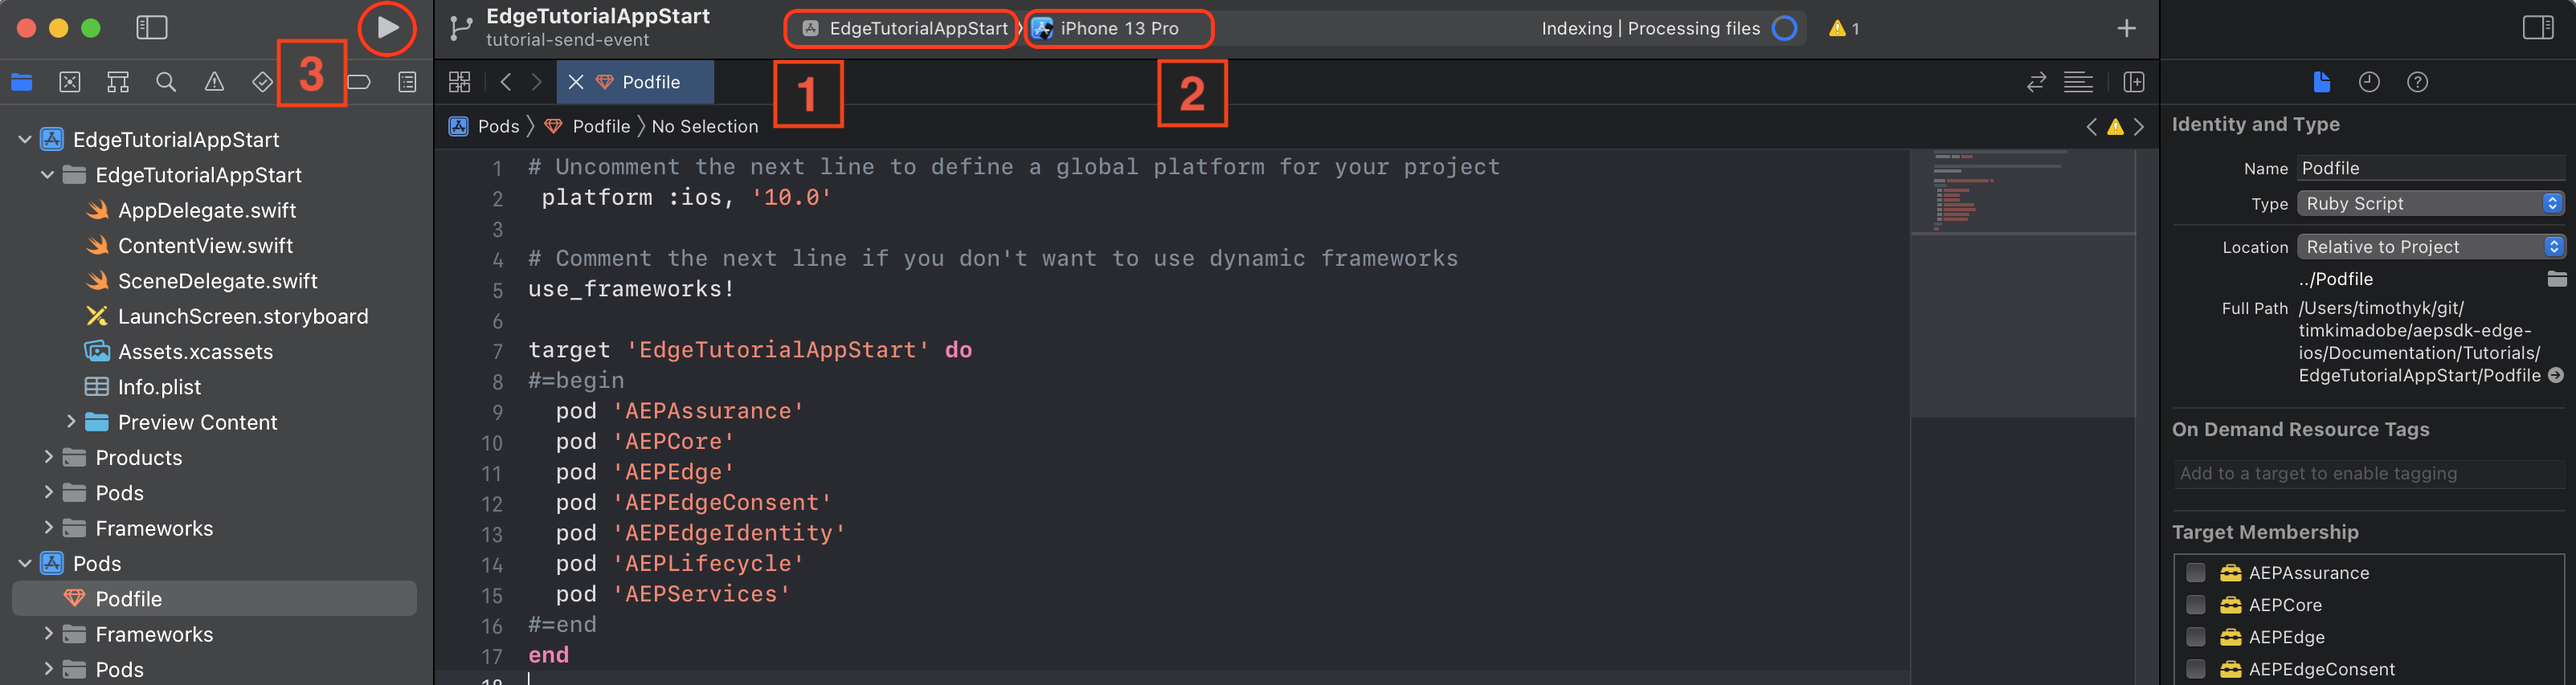
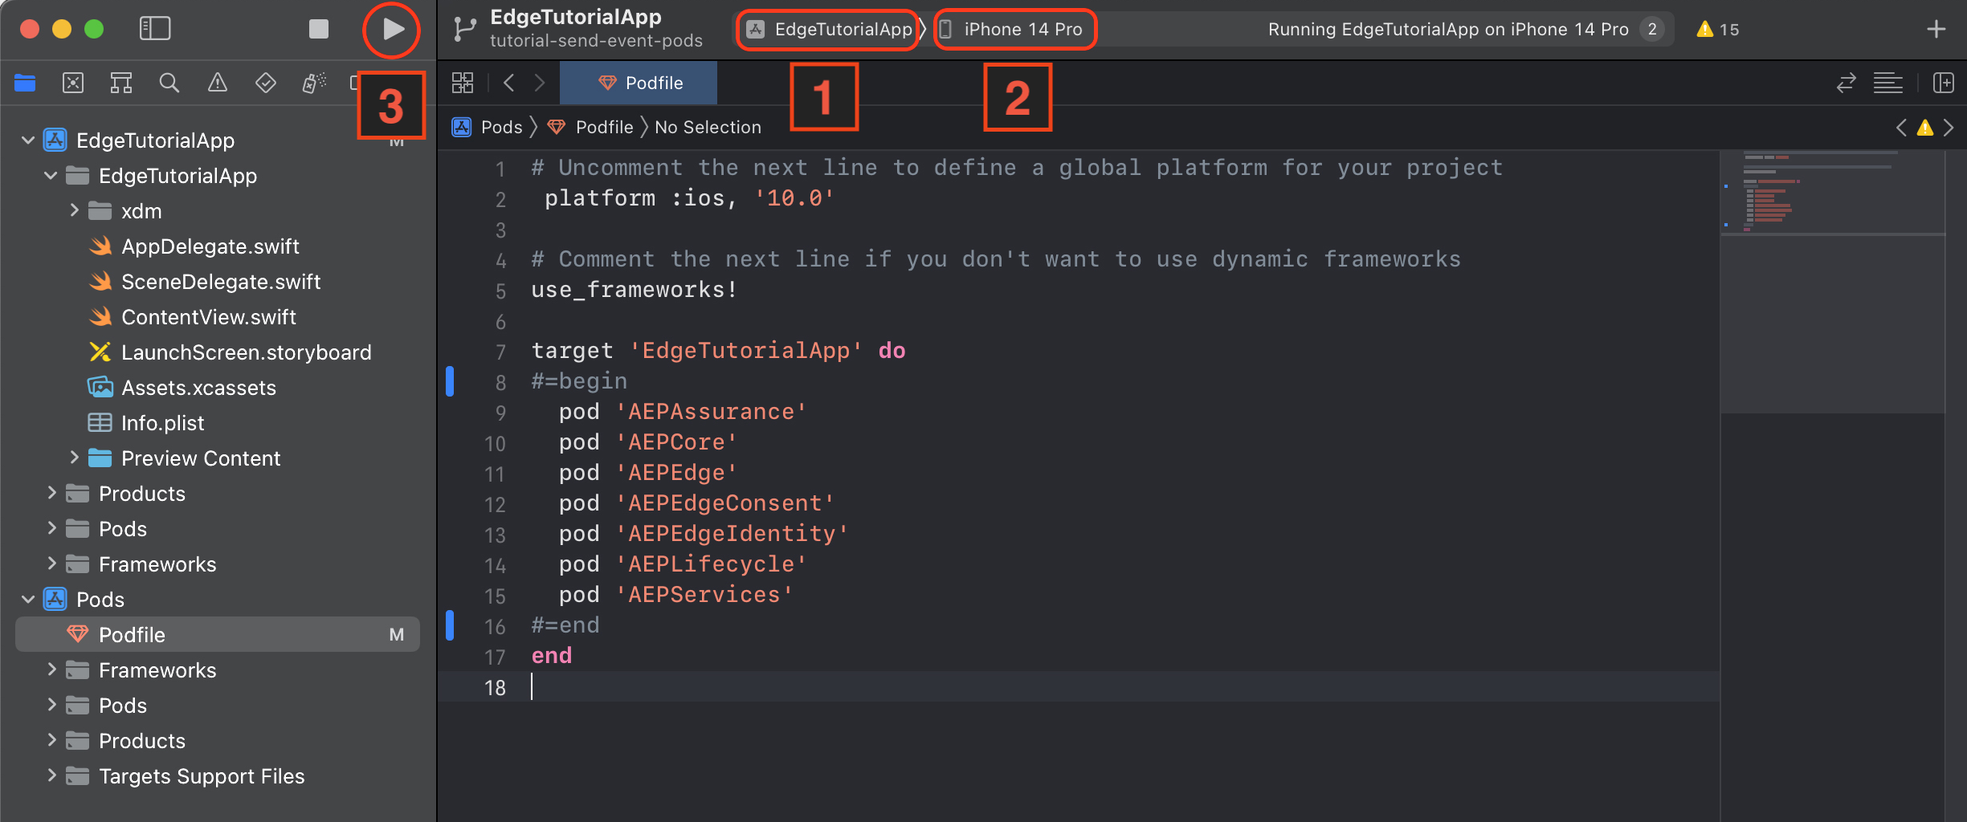
Update app name usages

diff --git a/Documentation/Tutorials/edge-send-event-tutorial.md b/Documentation/Tutorials/edge-send-event-tutorial.md
@@ -387,7 +387,7 @@ This should automatically open the Xcode IDE. In Xcode:
 You should see a section like the following: 
 
 ```ruby
-target 'EdgeTutorialAppStart' do
+target 'EdgeTutorialApp' do
 =begin
   pod 'AEPAssurance'
   pod 'AEPCore'
@@ -402,7 +402,7 @@ end
 Add a pound symbol `#` in front of the `=begin` and `=end` like so:
 
 ```ruby
-target 'EdgeTutorialAppStart' do
+target 'EdgeTutorialApp' do
 #=begin
   pod 'AEPAssurance'
   pod 'AEPCore'
@@ -457,8 +457,8 @@ tim@Tims-MacBook-Pro aepsdk-edge-ios-tutorial-send-event %
 ### 3. Update tutorial app code to enable Edge features
 There are three files to update to enable the Edge extensions' features. Thankfully, all of the code changes are contained in block comments like the Podfile so only a few changes have to be made!
 
-1. Select the dropdown chevron next to `EdgeTutorialAppStart` in the left-side navigation panel to open the project.
-2. Select the dropdown chevron next to `EdgeTutorialAppStart` to open the directory holding the code files.
+1. Select the dropdown chevron next to `EdgeTutorialApp` in the left-side navigation panel to open the project.
+2. Select the dropdown chevron next to `EdgeTutorialApp` to open the directory holding the code files.
 3. Select the `AppDelegate.swift` file.
 4. First update the `ENVIRONMENT_FILE_ID` value to the mobile property ID published in the first section.
    - See how to get your mobile property ID in the instructions for [getting the mobile property ID](#getting-the-mobile-property-id).
@@ -487,7 +487,7 @@ Notice that the Lifecycle APIs rely on the developer to place them in the proper
 
 ### 4. Run app   
 In Xcode: 
-1. Set the app target (**1**) to **EdgeTutorialAppStart** (if not already).
+1. Set the app target (**1**) to **EdgeTutorialApp** (if not already).
 2. Choose which destination device (**2**) to run it on (either simulator or physical device, in this case it is set to the iPhone 13 Pro simulator). 
 3. Select the play button (**3**).
 
